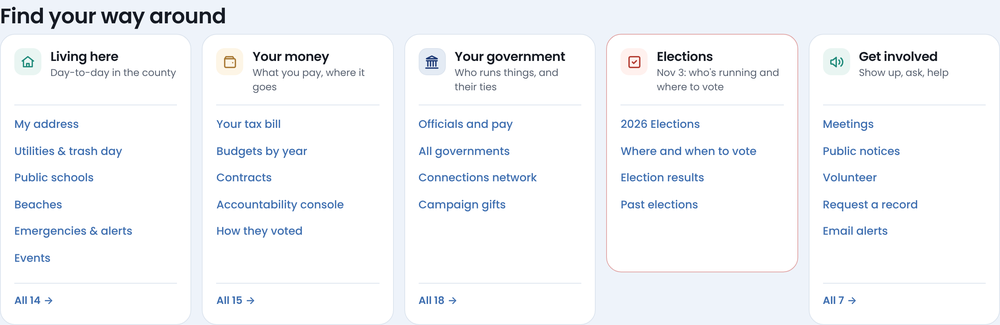
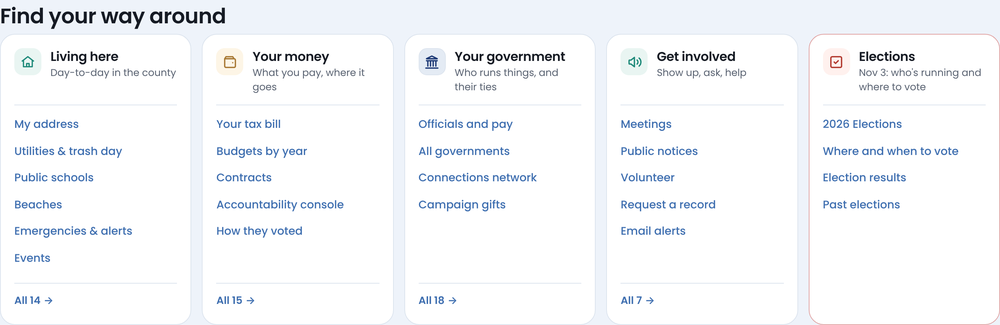
Homepage cards: Elections last, same height as the others
The election-season card moves to the end of the row, and keeps the
full card height on desktop (it only shrinks on phones, where it has
no All N footer).

Proof: docs/proof/home-doors/

Claude-Session: https://claude.ai/code/session_01HUBaQssfGvTFedTE4GNyXg

diff --git a/site/public/index.html b/site/public/index.html
@@ -94,7 +94,7 @@
 
   <section class="h-doors-sec" aria-labelledby="hdoors">
     <h2 id="hdoors" class="h-h2">Find your way around</h2>
-    <div class="h-doors"><div class="h-door"><div class="h-door-hd"><span class="ui-ti t-teal"><span class="ico i-home" aria-hidden="true"></span></span><div><h3>Living here</h3><p>Day-to-day in the county</p></div></div><ul><li><a href="/my-address">My address</a></li><li><a href="/utilities">Utilities &amp; trash day</a></li><li><a href="/schools">Public schools</a></li><li><a href="/beaches">Beaches</a></li><li><a href="/emergency">Emergencies &amp; alerts</a></li><li><a href="/events">Events</a></li></ul><details class="h-more"><summary>All 14</summary><ul><li><a href="/restaurants">Restaurant inspections</a></li><li><a href="/jobs">Government jobs</a></li><li><a href="/parks">Parks</a></li><li><a href="/hurricane-prep">Hurricane prep</a></li><li><a href="/new-businesses">New businesses</a></li><li><a href="/development">Building &amp; development</a></li><li><a href="/roads">Road projects</a></li><li><a href="/military">Military and the bases</a></li></ul></details></div><div class="h-door"><div class="h-door-hd"><span class="ui-ti t-amber"><span class="ico i-wallet" aria-hidden="true"></span></span><div><h3>Your money</h3><p>What you pay, where it goes</p></div></div><ul><li><a href="/public-money/tax-dollars">Your tax bill</a></li><li><a href="/public-money/budget-compare">Budgets by year</a></li><li><a href="/public-money/contracts">Contracts</a></li><li><a href="/public-money/accountability">Accountability console</a></li><li><a href="/public-money/votes">How they voted</a></li></ul><details class="h-more"><summary>All 15</summary><ul><li><a href="/public-money/fees-and-bills">Fees &amp; bills</a></li><li><a href="/public-money/exemptions">Exemptions</a></li><li><a href="/public-money/tourist-tax">Tourist tax</a></li><li><a href="/public-money/amendment-3">Amendment 3</a></li><li><a href="/compare">Compare governments</a></li><li><a href="/public-money/cra-spending">CRA spending</a></li><li><a href="/public-money/cra-tax-increment">CRA tax increment</a></li><li><a href="/public-money/sales-tax-projects">Sales tax projects</a></li><li><a href="/public-money/hurricane-michael">Hurricane Michael</a></li><li><a href="/public-money/vendors">Vendors</a></li></ul></details></div><div class="h-door"><div class="h-door-hd"><span class="ui-ti t-blue"><span class="ico i-county" aria-hidden="true"></span></span><div><h3>Your government</h3><p>Who runs things, and their ties</p></div></div><ul><li><a href="/people">Officials and pay</a></li><li><a href="/governments">All governments</a></li><li><a href="/connections">Connections network</a></li><li><a href="/connections/campaign-gifts">Campaign gifts</a></li></ul><details class="h-more"><summary>All 18</summary><ul><li><a href="/governments/bay-county">Bay County</a></li><li><a href="/governments/bay-district-schools">Bay District Schools</a></li><li><a href="/governments/panama-city">Panama City</a></li><li><a href="/governments/panama-city-beach">Panama City Beach</a></li><li><a href="/governments/lynn-haven">Lynn Haven</a></li><li><a href="/governments/callaway">Callaway</a></li><li><a href="/governments/springfield">Springfield</a></li><li><a href="/governments/parker">Parker</a></li><li><a href="/governments/mexico-beach">Mexico Beach</a></li><li><a href="/connections/overlaps">Where records overlap</a></li><li><a href="/connections/business-ties">Business ties</a></li><li><a href="/connections/shared-owners">Shared owners</a></li><li><a href="/connections/nonprofits">Nonprofits</a></li><li><a href="/chambers">Chambers of commerce</a></li></ul></details></div><div class="h-door season"><div class="h-door-hd"><span class="ui-ti t-salmon"><span class="ico i-vote" aria-hidden="true"></span></span><div><h3>Elections</h3><p>Nov 3: who&#x27;s running and where to vote</p></div></div><ul><li><a href="/elections">2026 Elections</a></li><li><a href="/elections/voting">Where and when to vote</a></li><li><a href="/elections/results">Election results</a></li><li><a href="/elections/past">Past elections</a></li></ul></div><div class="h-door"><div class="h-door-hd"><span class="ui-ti t-teal"><span class="ico i-megaphone" aria-hidden="true"></span></span><div><h3>Get involved</h3><p>Show up, ask, help</p></div></div><ul><li><a href="/meetings">Meetings</a></li><li><a href="/notices">Public notices</a></li><li><a href="/volunteer">Volunteer</a></li><li><a href="/records-request">Request a record</a></li><li><a href="/alerts">Email alerts</a></li></ul><details class="h-more"><summary>All 7</summary><ul><li><a href="/this-week">This week</a></li><li><a href="/correspondence">Letters to officials</a></li></ul></details></div></div>
+    <div class="h-doors"><div class="h-door"><div class="h-door-hd"><span class="ui-ti t-teal"><span class="ico i-home" aria-hidden="true"></span></span><div><h3>Living here</h3><p>Day-to-day in the county</p></div></div><ul><li><a href="/my-address">My address</a></li><li><a href="/utilities">Utilities &amp; trash day</a></li><li><a href="/schools">Public schools</a></li><li><a href="/beaches">Beaches</a></li><li><a href="/emergency">Emergencies &amp; alerts</a></li><li><a href="/events">Events</a></li></ul><details class="h-more"><summary>All 14</summary><ul><li><a href="/restaurants">Restaurant inspections</a></li><li><a href="/jobs">Government jobs</a></li><li><a href="/parks">Parks</a></li><li><a href="/hurricane-prep">Hurricane prep</a></li><li><a href="/new-businesses">New businesses</a></li><li><a href="/development">Building &amp; development</a></li><li><a href="/roads">Road projects</a></li><li><a href="/military">Military and the bases</a></li></ul></details></div><div class="h-door"><div class="h-door-hd"><span class="ui-ti t-amber"><span class="ico i-wallet" aria-hidden="true"></span></span><div><h3>Your money</h3><p>What you pay, where it goes</p></div></div><ul><li><a href="/public-money/tax-dollars">Your tax bill</a></li><li><a href="/public-money/budget-compare">Budgets by year</a></li><li><a href="/public-money/contracts">Contracts</a></li><li><a href="/public-money/accountability">Accountability console</a></li><li><a href="/public-money/votes">How they voted</a></li></ul><details class="h-more"><summary>All 15</summary><ul><li><a href="/public-money/fees-and-bills">Fees &amp; bills</a></li><li><a href="/public-money/exemptions">Exemptions</a></li><li><a href="/public-money/tourist-tax">Tourist tax</a></li><li><a href="/public-money/amendment-3">Amendment 3</a></li><li><a href="/compare">Compare governments</a></li><li><a href="/public-money/cra-spending">CRA spending</a></li><li><a href="/public-money/cra-tax-increment">CRA tax increment</a></li><li><a href="/public-money/sales-tax-projects">Sales tax projects</a></li><li><a href="/public-money/hurricane-michael">Hurricane Michael</a></li><li><a href="/public-money/vendors">Vendors</a></li></ul></details></div><div class="h-door"><div class="h-door-hd"><span class="ui-ti t-blue"><span class="ico i-county" aria-hidden="true"></span></span><div><h3>Your government</h3><p>Who runs things, and their ties</p></div></div><ul><li><a href="/people">Officials and pay</a></li><li><a href="/governments">All governments</a></li><li><a href="/connections">Connections network</a></li><li><a href="/connections/campaign-gifts">Campaign gifts</a></li></ul><details class="h-more"><summary>All 18</summary><ul><li><a href="/governments/bay-county">Bay County</a></li><li><a href="/governments/bay-district-schools">Bay District Schools</a></li><li><a href="/governments/panama-city">Panama City</a></li><li><a href="/governments/panama-city-beach">Panama City Beach</a></li><li><a href="/governments/lynn-haven">Lynn Haven</a></li><li><a href="/governments/callaway">Callaway</a></li><li><a href="/governments/springfield">Springfield</a></li><li><a href="/governments/parker">Parker</a></li><li><a href="/governments/mexico-beach">Mexico Beach</a></li><li><a href="/connections/overlaps">Where records overlap</a></li><li><a href="/connections/business-ties">Business ties</a></li><li><a href="/connections/shared-owners">Shared owners</a></li><li><a href="/connections/nonprofits">Nonprofits</a></li><li><a href="/chambers">Chambers of commerce</a></li></ul></details></div><div class="h-door"><div class="h-door-hd"><span class="ui-ti t-teal"><span class="ico i-megaphone" aria-hidden="true"></span></span><div><h3>Get involved</h3><p>Show up, ask, help</p></div></div><ul><li><a href="/meetings">Meetings</a></li><li><a href="/notices">Public notices</a></li><li><a href="/volunteer">Volunteer</a></li><li><a href="/records-request">Request a record</a></li><li><a href="/alerts">Email alerts</a></li></ul><details class="h-more"><summary>All 7</summary><ul><li><a href="/this-week">This week</a></li><li><a href="/correspondence">Letters to officials</a></li></ul></details></div><div class="h-door season"><div class="h-door-hd"><span class="ui-ti t-salmon"><span class="ico i-vote" aria-hidden="true"></span></span><div><h3>Elections</h3><p>Nov 3: who&#x27;s running and where to vote</p></div></div><ul><li><a href="/elections">2026 Elections</a></li><li><a href="/elections/voting">Where and when to vote</a></li><li><a href="/elections/results">Election results</a></li><li><a href="/elections/past">Past elections</a></li></ul></div></div>
   </section>
 
   <section class="h-hero" aria-labelledby="hmoney">

diff --git a/site/public/assets/site.css b/site/public/assets/site.css
@@ -498,7 +498,6 @@ label[hidden],.vf[hidden],.sc-f[hidden]{display:none!important}
 .h-h2{font-size:clamp(1.4rem,2.6vw,1.75rem);font-weight:700;letter-spacing:-.02em;margin:0 0 16px}
 .h-doors{display:grid;grid-template-columns:repeat(auto-fit,minmax(200px,1fr));gap:14px}
 .h-door{display:grid;grid-template-rows:subgrid;grid-row:span 3;row-gap:14px;align-content:start;padding:18px 18px 14px;border:1px solid var(--line);border-radius:var(--r-lg);background:var(--surface);min-width:0}
-.h-door:not(:has(.h-more)){grid-row:span 2}
 .h-door.season{border-color:color-mix(in srgb,var(--salmon) 45%,var(--line))}
 .h-door-hd{display:flex;align-items:flex-start;gap:12px;padding-bottom:14px;border-bottom:1px solid var(--line)}
 .h-door-hd .ui-ti{flex:none}
@@ -518,7 +517,7 @@ label[hidden],.vf[hidden],.sc-f[hidden]{display:none!important}
 @media (max-width:1000px){.h-top{grid-template-columns:minmax(0,1fr)}.h-row2{grid-template-columns:minmax(0,1fr)}}
 @media (max-width:640px){.h-today{display:grid;grid-template-columns:repeat(2,minmax(0,1fr));gap:8px}.h-today h2{grid-column:1/-1}
   .h-td{flex-direction:column;align-items:flex-start;gap:8px;padding:12px}.h-td b{font-size:.9rem}
-  .h-doors{grid-template-columns:minmax(0,1fr)}.h-addr button{padding:0 16px}}
+  .h-doors{grid-template-columns:minmax(0,1fr)}.h-door:not(:has(.h-more)){grid-row:span 2}.h-addr button{padding:0 16px}}
 @media (max-width:1000px){.h-hero{grid-template-columns:minmax(0,1fr);grid-template-areas:'intro' 'bill' 'cmp'}.h-bill{position:static}.h-tiles,.h-row{grid-template-columns:minmax(0,1fr)}}
 @media (max-width:560px){.h-bill{padding:22px 18px}.cmp-bars button{grid-template-columns:110px minmax(0,1fr) 66px}.hb-cols,.hb-lines li,.hb-total{grid-template-columns:minmax(0,1fr) 64px 84px}}
 @media print{.h-ctl,.hb-addr,.h-links{display:none}.h-bill{position:static;box-shadow:none}}

diff --git a/site/site.css b/site/site.css
@@ -467,7 +467,6 @@ label[hidden],.vf[hidden],.sc-f[hidden]{display:none!important}
 .h-h2{font-size:clamp(1.4rem,2.6vw,1.75rem);font-weight:700;letter-spacing:-.02em;margin:0 0 16px}
 .h-doors{display:grid;grid-template-columns:repeat(auto-fit,minmax(200px,1fr));gap:14px}
 .h-door{display:grid;grid-template-rows:subgrid;grid-row:span 3;row-gap:14px;align-content:start;padding:18px 18px 14px;border:1px solid var(--line);border-radius:var(--r-lg);background:var(--surface);min-width:0}
-.h-door:not(:has(.h-more)){grid-row:span 2}
 .h-door.season{border-color:color-mix(in srgb,var(--salmon) 45%,var(--line))}
 .h-door-hd{display:flex;align-items:flex-start;gap:12px;padding-bottom:14px;border-bottom:1px solid var(--line)}
 .h-door-hd .ui-ti{flex:none}
@@ -487,7 +486,7 @@ label[hidden],.vf[hidden],.sc-f[hidden]{display:none!important}
 @media (max-width:1000px){.h-top{grid-template-columns:minmax(0,1fr)}.h-row2{grid-template-columns:minmax(0,1fr)}}
 @media (max-width:640px){.h-today{display:grid;grid-template-columns:repeat(2,minmax(0,1fr));gap:8px}.h-today h2{grid-column:1/-1}
   .h-td{flex-direction:column;align-items:flex-start;gap:8px;padding:12px}.h-td b{font-size:.9rem}
-  .h-doors{grid-template-columns:minmax(0,1fr)}.h-addr button{padding:0 16px}}
+  .h-doors{grid-template-columns:minmax(0,1fr)}.h-door:not(:has(.h-more)){grid-row:span 2}.h-addr button{padding:0 16px}}
 @media (max-width:1000px){.h-hero{grid-template-columns:minmax(0,1fr);grid-template-areas:'intro' 'bill' 'cmp'}.h-bill{position:static}.h-tiles,.h-row{grid-template-columns:minmax(0,1fr)}}
 @media (max-width:560px){.h-bill{padding:22px 18px}.cmp-bars button{grid-template-columns:110px minmax(0,1fr) 66px}.hb-cols,.hb-lines li,.hb-total{grid-template-columns:minmax(0,1fr) 64px 84px}}
 @media print{.h-ctl,.hb-addr,.h-links{display:none}.h-bill{position:static;box-shadow:none}}

diff --git a/site/home.py b/site/home.py
@@ -134,7 +134,8 @@ def _doors():
     from site_menu import menu, links
     from ui import ico
     out = []
-    for m in menu():
+    # the election-season card goes last: it's shorter than the others (no "All N" footer)
+    for m in sorted(menu(), key=lambda m: bool(m.get('season'))):
         if m.get('footer'):
             continue
         ls = links(m)
